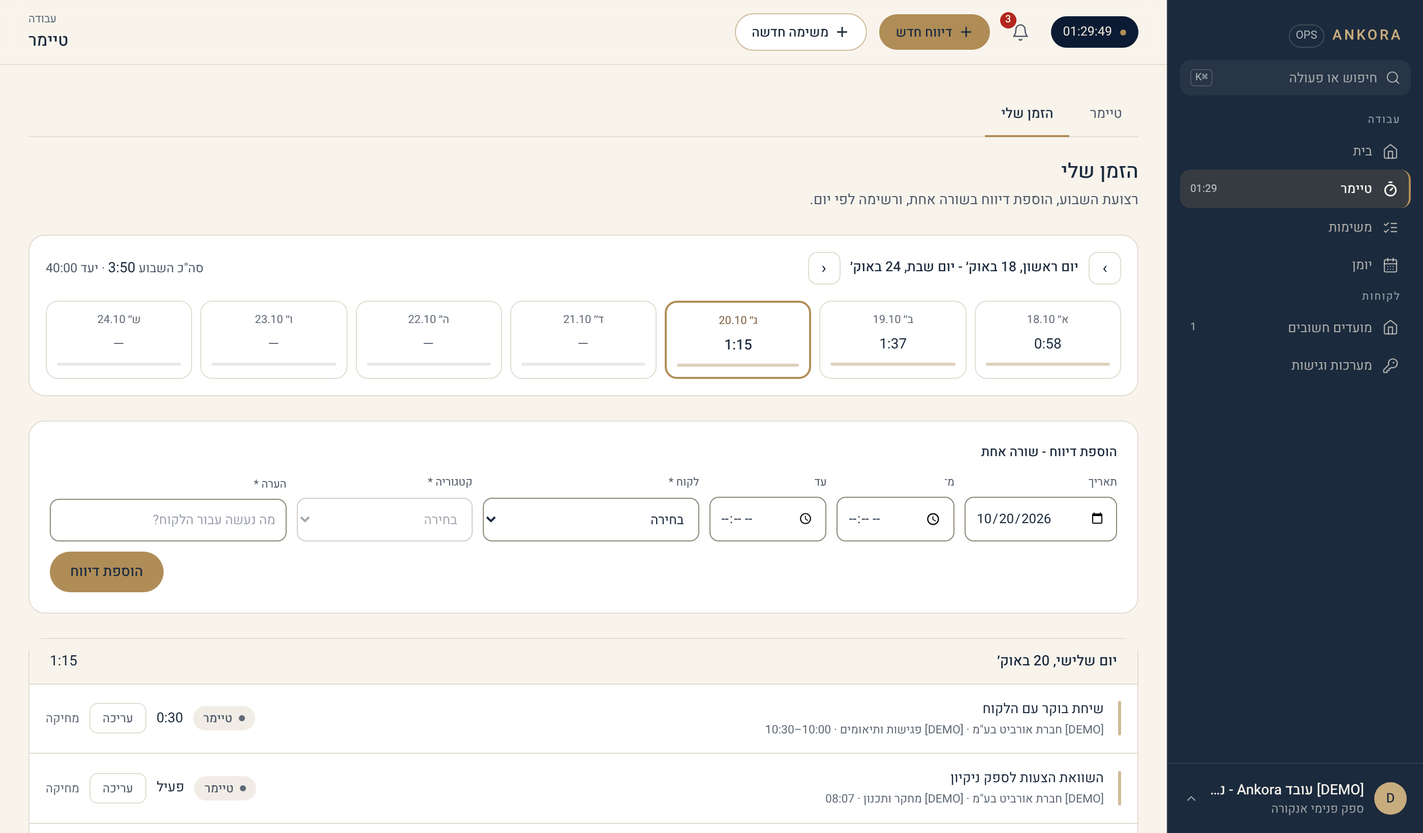
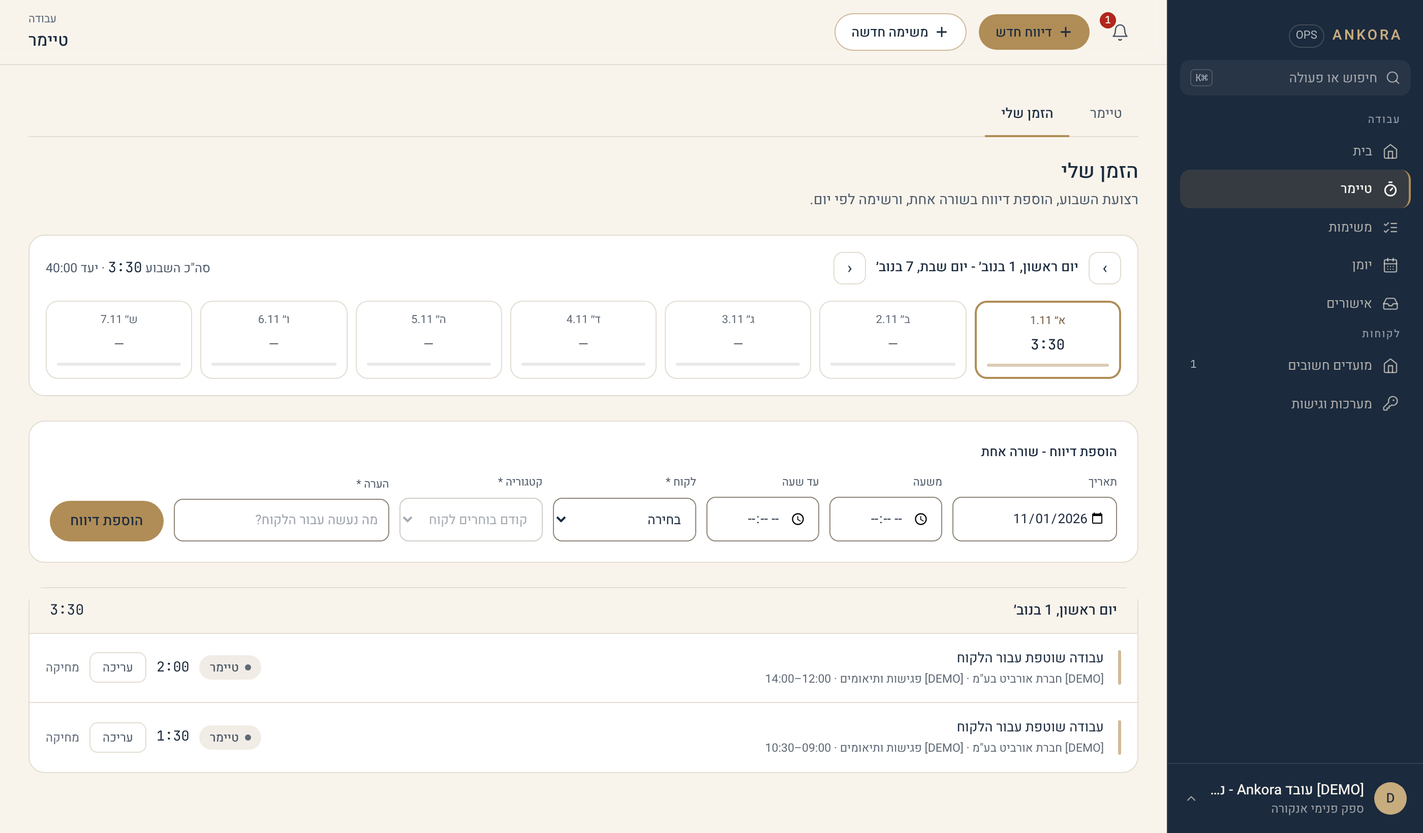
תיעוד: בדיקה שבועית 1.11 - מדריך, ERD ו-README (#374)
* תיעוד: בדיקה שבועית 1.11 - מדריך, ERD ו-README

Claude-Session: https://claude.ai/code/session_015t38bRrRqjtbhz

* README: 55 כלי MCP, ושורת האישורים

Claude-Session: https://claude.ai/code/session_015t38bRrRqjtbhz

---------

diff --git a/app/(product)/app/(authenticated)/guide/content.ts b/app/(product)/app/(authenticated)/guide/content.ts
@@ -200,7 +200,7 @@ export const GUIDE_GROUPS: GuideGroup[] = [
         ],
         steps: [
           "לניווט בין שבועות: חצים בראש רצועת השבוע.",
-          "להזנה ידנית: מלאו את שורת הטופס (תאריך, מ־/עד, לקוח, קטגוריה, הערה) ולחצו \"הוספת דיווח\". ההערה חובה: מה נעשה עבור הלקוח, בכמה מילים. בתאריך שאינו היום ייפתח גם שדה סיבה - הוא חובה.",
+          "להזנה ידנית: מלאו את שורת הטופס (תאריך, \"משעה\", \"עד שעה\", לקוח, קטגוריה, הערה) ולחצו \"הוספת דיווח\". ההערה חובה: מה נעשה עבור הלקוח, בכמה מילים. בתאריך שאינו היום ייפתח גם שדה סיבה - הוא חובה.",
           "לעריכה: לחצו \"עריכה\" בשורת הדיווח, בתוך חלון 48 השעות.",
         ],
         images: [{ src: "/guide/my-time.png", alt: "מסך הזמן שלי עם רשימת דיווחים שבועית", caption: "מסך \"הזמן שלי\" - תצוגה שבועית" }],
@@ -215,6 +215,8 @@ export const GUIDE_GROUPS: GuideGroup[] = [
           "לכל משימה סטטוס אחד מתוך חמישה: פתוחה, בביצוע, ממתינה לאישור, הושלמה, או בארכיון. שינוי סטטוס הוא מיידי ואינו דורש שמירה נפרדת.",
           "בדף של משימה מופיע גם \"גישות למערכות של\" הלקוח, כשנשמרו לו גישות. צפייה בסיסמה משם נרשמת ביומן יחד עם המשימה, ולכן זו הדרך המועדפת לצפות בגישה כשעובדים על משימה.",
           "רואים ויוצרים משימות רק עבור הלקוחות שהוקצו לכם (אותה הרשאה בדיוק כמו בבחירת לקוח במסך הטיימר) - אלא אם יש לכם הרשאת ניהול לקוחות, ואז רואים את כולם.",
+          "בדף של משימה, לצד הטיימר, יש שני כפתורים: \"שיתוף\" ו\"דיווח ידני\". נפתח רק אחד מהם בכל פעם.",
+          "\"בלי AI\": לקוח שביקש ששום דבר שלו לא יעבור דרך AI מסומן \"בלי AI\" בהגדרות הלקוח, ואז כל המשימות, המסמכים והתיק שלו מטופלים בידי אדם בלבד. אפשר לסמן גם משימה בודדת, בתיבה \"בלי AI: המשימה מטופלת בידי אדם בלבד\" בדף המשימה. השלבים והמסמכים של משימה מסומנת יורשים את הסימון. במשימה כזו אין \"קדם עם קלוד\", והפרומפטים והכלים של Claude לא קוראים אותה. כל איש צוות יכול לסמן, ורק מנהל יכול להסיר סימון, כי הסרה היא הכיוון ששולח חומר ל-AI. סימון שמגיע מהלקוח או ממשימת האב מוצג כעובדה ואי אפשר להסיר אותו מהמשימה.",
         ],
         steps: [
           "ליצירת משימה: במחשב לחצו \"משימה חדשה\" בפס העליון (ליד \"דיווח חדש\"), מכל מסך. בטלפון לחצו \"משימה\" במסך המשימות. בחלונית שנפתחת בחרו לקוח (וקטגוריה, אופציונלי), אחראי ומפקח (אופציונלי), הזינו שם משימה ולחצו \"הוספת משימה\".",
@@ -224,6 +226,10 @@ export const GUIDE_GROUPS: GuideGroup[] = [
           "למעבר בין תצוגות: מתג \"רשימה\" / \"לוח\" בראש המסך. בלוח ארבע עמודות לפי סטטוס (פתוחות, בביצוע, ממתינות לאישור, הושלמו), וגרירת כרטיס בין עמודות משנה את הסטטוס.",
           "לקיבוץ ולחיפוש: מתג \"לפי לקוח\" מקבץ את הרשימה לפי לקוח. בשדה החיפוש מחפשים בכותרת, בתיאור, בשרשור ובשם הלקוח - מקלידים ולוחצים Enter. לצדו בוררי \"לקוח\" ו\"קטגוריה\".",
           "לשינוי סטטוס: בחרו סטטוס חדש מהתפריט הנפתח ליד המשימה - השינוי נשמר אוטומטית.",
+          "למיון: לחצו על שם עמודה בכותרת הרשימה (לקוח, משימה, תאריך, אחראי, סטטוס, מפקח). לחיצה ראשונה ממיינת בסדר עולה, שנייה בסדר יורד, ושלישית מחזירה לסדר ברירת המחדל. בטלפון, שבו אין כותרת, יש בורר \"מיון\". המיון נשמר בכתובת, ולכן החזרה ממשימה חוזרת לאותו סדר.",
+          "לשינוי תאריך יעד: לחצו על התאריך בשורת המשימה, או על \"הוספת תאריך יעד\" כשאין תאריך, ובחרו תאריך מהבורר. השינוי נשמר מיד, בלי לפתוח את המשימה.",
+          "לדיווח זמן שהטיימר פספס: בדף המשימה לחצו \"דיווח ידני\", מלאו תאריך, \"מ־\", \"עד\" והערה (ההערה מתחילה בשם המשימה), ולחצו \"שמירת דיווח\". הדיווח נרשם על לקוח המשימה ועליה.",
+          "לשליחת משימה לעמית: בדף המשימה לחצו \"שיתוף\", בחרו \"למי\" (או \"בלי נמען\"), הוסיפו הערה אם רוצים, ולחצו \"טיוטה ב-Gmail\" או \"וואטסאפ\". ההודעה כוללת שם משימה, לקוח, סטטוס, עדיפות, תאריך יעד וקישור. \"העתקת ההודעה\" מעתיקה אותה לכל מקום אחר.",
         ],
         images: [
           { src: "/guide/tasks.png", alt: "מסך המשימות עם לשוניות סטטוס", caption: "מסך \"משימות\"" },
@@ -257,6 +263,7 @@ export const GUIDE_GROUPS: GuideGroup[] = [
         notes: [
           "קלוד לא שולח כלום ללקוח או לספק. הוא מנסח, ואתם שולחים. סגירת משימה, דיווח זמן, שינוי אחראי או תאריך ופתיחת החלטה ללקוח נעשים רק אחרי שאישרתם בשיחה.",
           "התוכנית פנימית ולא מוצגת בפורטל הלקוח. הפרומט לא כולל סיסמאות מהכספת, כרטיסי אשראי או פרטי קשר של הלקוח.",
+          "משימה שמסומנת \"בלי AI\", או משימה של לקוח שמסומן כך, לא מקבלת את הכפתור: במקומו כתוב \"בלי AI: אין \"קדם עם קלוד\" במשימה הזו. היא מטופלת בידי אדם בלבד.\"",
           "אם מישהו שמר גרסה חדשה בזמן שעבדתם, השמירה לא דורסת אותה. קלוד יציג את ההבדל וישאל לפני שהוא שומר שוב.",
         ],
         images: [{ src: "/guide/advance-with-claude.png", alt: "אזור \"תוכנית עבודה\" בדף המשימה", caption: "אזור \"תוכנית עבודה\", עם הגרסה, מי אישר ומתי" }],
@@ -334,6 +341,7 @@ export const GUIDE_GROUPS: GuideGroup[] = [
           "שדה החיפוש שבראש המסך מסנן את הרשת תוך כדי הקלדה, בלי כפתור שליחה.",
           "בתחתית כל כרטיס יש קיצורי דרך לפי ההרשאות שלכם: \"בנק שעות\" (פתיחת המסך של אותו לקוח, למנהל-על) ו\"דוח פעילות\" (קפיצה לטאב תקציר הפעילות במסך הדוחות, עם הלקוח כבר מסונן). כפתור שלישי, \"תצוגת לקוח\", פותח את פורטל הלקוח בדיוק כפי שהלקוח רואה אותו - לקריאה בלבד, והכניסה נרשמת ביומן הפעולות.",
           "לחיצה על שם לקוח פותחת את דף הפרטים שלו, שם ניתן לערוך את הפרטים, לראות את הקטגוריות ואנשי הצוות המשויכים אליו, ולנהל את ההרשמה ללוחות חגים.",
+          "בעריכת הלקוח שני מתגים חדשים. \"בלי AI\": הלקוח ביקש ששום דבר שלו לא יעבור דרך מערכות AI, כלומר משימות, מסמכים ותיק הלקוח מטופלים בידי אדם בלבד. \"הפרדה באישור נהלים\": מי שכתב גרסה של נוהל לא מאשר אותה, גם כשהוא מנהל. מיועד ללקוח שהמבקר שלו דורש הפרדה, וכבוי כברירת מחדל.",
           "לקוח לא נמחק לצמיתות - רק מועבר לארכיון (soft delete), כדי לשמר את כל ההיסטוריה וה-audit trail שלו. בתחתית המסך נפתח אזור \"בארכיון (N)\" עם הלקוחות שהועברו לשם.",
         ],
         steps: [
@@ -402,6 +410,7 @@ export const GUIDE_GROUPS: GuideGroup[] = [
         description: [
           "במסך של לקוח יש שתי לשוניות. \"עבודה שוטפת\" נשארה כמו שהייתה: משימות, מסמכים, החלטות ומועדים. \"תיק הלקוח\" מחזיקה את מה שצריך לדעת כדי לעבוד איתו.",
           "בתיק: סקירה, רקע והתפקיד שלנו; ישויות משפטיות (למשל Inc ו-LTD); אנשים ויחסים; ספקים ונותני שירות; עובדות (תחום אחריות, העדפות, דרישות, כספים, מידע זמני, החלטות ושאלות פתוחות); סוגי פניות ודרכי מענה; מפת מערכות; ומרשם המקורות והדומיינים.",
+          "בצד התיק (ובטלפון, כשורת כפתורים מעליו) יש אינדקס חלקים: \"הכול\", \"סקירה וישויות\", \"אנשים וספקים\", \"עובדות ושאלות\", \"תהליכים ונהלים\", \"כללים\", \"סוגי פניות\", \"מערכות וגישות\" ו\"מקורות\". לחיצה על חלק מציגה אותו לבדו, ו\"הכול\" מציג את התיק הארוך כולו. ליד כל חלק מספר הפריטים בו. \"ממתין לאישור\" מופיע ראשון, עם מספר מודגש, רק כשמשהו מחכה, ונעלם כשאין. החלק האחרון שנפתח חוזר בביקור הבא, בדפדפן הזה.",
           "בראש הלשונית מופיע \"כפילויות אפשריות (N)\": אנשי קשר, ארגונים, מערכות, ישויות ומועדים שנראה שנכנסו לתיק פעמיים בכתיב שונה. משלימים את אחד מהם ומסירים את השני.",
           "לכל פריט יש סטטוס: מאושר (הלקוח או ספק שלו אמר או הראה במפורש), לא ודאי, או חסר. פריט שאינו מאושר מציג גם מה יסגור אותו.",
           "לכל פריט יש מקור: קוד במרשם המקורות של הלקוח (S1, S2) ודקה בהקלטה כשיש. מקורות נרשמים פעם אחת, ב\"מרשם מקורות\", ואז מציינים אותם ליד כל פריט, למשל \"S1 08:13\".",
@@ -410,7 +419,7 @@ export const GUIDE_GROUPS: GuideGroup[] = [
           "אדם וארגון נשמרים פעם אחת לכל אנקורה. שותף כמו משרד רואי חשבון שעובד עם כמה לקוחות מופיע אצל כל אחד מהם עם הקשר משלו, ומה שכתוב עליו אצל לקוח אחד לא מוצג אצל לקוח אחר.",
         ],
         steps: [
-          "פותחים לקוח במסך \"לקוחות\" ועוברים ללשונית \"תיק הלקוח\".",
+          "פותחים לקוח במסך \"לקוחות\" ועוברים ללשונית \"תיק הלקוח\". באינדקס בוחרים חלק, או \"הכול\".",
           "קודם רושמים מקור: \"+ מקור\" במרשם המקורות, עם סוג (הקלטה, מסמך של הלקוח, משימה, נמסר בעל פה, מסמך של אנקורה, מייל) ושם.",
           "מוסיפים פריט עם הכפתור של הסעיף (\"+ איש קשר\", \"+ פריט\", \"+ מערכת\" וכו'), ומציינים את קוד המקור בשדה \"מקורות\".",
           "לשאלה פתוחה: \"+ פריט\" ובחירת \"שאלה פתוחה\". כשיש תשובה, \"תשובה\" עם המקור שלה. \"למשימה\" פותחת משימה למי שאחראי לברר.",
@@ -457,18 +466,21 @@ export const GUIDE_GROUPS: GuideGroup[] = [
         id: "client-processes",
         title: "תהליכים ונהלים",
         roles: ["SUPER_ADMIN", "ANKORA_ADMIN"],
-        summary: "מה חוזר אצל הלקוח, מי אחראי, מה מפעיל את זה, ואיך עושים את זה. נוהל רץ רק אחרי שמנהל אישר אותו.",
+        summary: "מה חוזר אצל הלקוח, מי אחראי, מה מפעיל את זה, ואיך עושים את זה. נוהל רץ רק אחרי שמנהל או מנהל התיק של הלקוח אישרו אותו.",
         description: [
           "\"תהליכים\" בלשונית תיק הלקוח. לכל תהליך קוד (P1, P2), טריגר, בעלים, ואיפה הוא עומד בחפיפה: אצל הלקוח, בחפיפה, אצלנו, או לא עובר אלינו.",
           "בראש כל כרטיס כתוב אם התהליך רץ. תהליך רץ כשיש לו אחראי, כתוב מה מפעיל אותו, יש לו נוהל מאושר, וכשהוא לפי מועד, יש לו מועד הבא. כשאחד מאלה חסר כתובה באדום הסיבה האחת, למשל \"לא ירוץ: אין נוהל מאושר\".",
           "התיעוד מוצג בנפרד ובשקט, \"תיעוד 4 מתוך 6\": SLA, מערכות, הרשאות, ספי אישור ומאשר, גורם חיצוני ונוהל חריגים. הוא לא עוצר ריצה. שדה שלא שייך לתהליך מסמנים \"לא רלוונטי\" בלחיצה (מנהל או הבעלים של התהליך), והוא יוצא מהספירה. \"(ביטול)\" ליד הסימון מחזיר אותו. מאשר שכתוב בשם מספיק לספי אישור ומאשר.",
           "מערכת או איש קשר מהתיק שמוזכרים בשלבים או בתיאור של התהליך ועוד לא מקושרים, מופיעים בכרטיס עם כפתור \"לקשר\". שום דבר לא מקושר לבד.",
+          "הנוהל המאושר מצויר בכרטיס כתרשים: פס של הימים שבהם משהו קורה, ומתחתיו עמודת שלבים לכל יום. בתהליך לפי מועד יום 0 הוא \"המועד\", עם התאריך. שלב שדורש אישור או שמגיע אחרי הזמן המוגדר מסומן. התרשים הוא ברירת המחדל. מתג \"טקסט\" לצד \"תרשים\" מחזיר את כל הכרטיסים לרשימה, והבחירה נשמרת בדפדפן.",
+          "עריכת התהליך וכתיבת הנוהל נפתחות בחלונית צד בחצי מסך. שדות העריכה מקובצים (\"מה ומתי\", \"מי\", \"זמנים ובקרה\", \"מערכות וגורמים\", \"מצב\", \"חריגים ומסמך הנוהל\"), ושדות פחות נפוצים מסתתרים מאחורי \"הצג עוד\", עם ספירה של מה שכבר מלא. ב\"עוד\" בכרטיס: השהיה, חידוש והסרה של התהליך.",
+          "\"מבחן הזר\" שואל אם מי שמעולם לא עשה את התהליך יכול להריץ אותו מחר. בכרטיס כתוב מצבו (\"מבחן הזר: עוד לא הורץ\", \"2 חוסמים, 5 שאלות פתוחות · 31.10\" או \"עבר\") והשאלות הפתוחות, כל אחת עם חומרה (חוסם, יאט, שיפור), השלב, ומי יודע (אצלנו או אצל הלקוח). \"מבחן הזר: העתקת הנחיה ל-Claude\" מעתיק הנחיה: Claude עובר על כל שלב מול התיק, המסמכים והלקחים, ורושם שאלות במקומות שבהם היה נתקע. מבחן חדש מחליף את השאלות שנשארו פתוחות. תשובה שנותנים ל-Claude נכנסת לתיק מיד כעובדה מאושרת, על שם מי שענה, בלי הצעה ובלי סבב אישור. תשובה שמשנה כלל: Claude שואל במפורש \"זה משנה את הכלל X מ-A ל-B. אתה מאשר?\", ורק על \"כן\", ממנהל או ממנהל התיק, הכלל מתעדכן ומאושר, והגרסה הקודמת נשמרת בהיסטוריה.",
           "בכל כרטיס תהליך יש שורה אחת \"הצעד הבא\": הדבר שעוצר הכי הרבה, מה מומלץ ולמה, וכפתור שעושה את זה. למשל: \"לקשר את המועד\" לתהליך לפי מועד בלי מועד הבא, או \"לסגור את שתיהן\" למשימות ישנות שהתהליך מכסה. מתחת, שאר הפערים כרשימה לסמן, לכל אחד הפעולה שלו. כשאין מה לסגור כתוב \"תקין\".",
           "הנוהל, הריצות, ההערות מריצות, המקורות וההיסטוריה נמצאים תחת \"פרטים\". הם סגורים, חוץ מכשטיוטת נוהל מחכה לאישור או כשהגעתם לתהליך מקישור.",
           "הנוהל נשמר בגרסאות. לכל שלב: מה עושים, איך (ידני, Claude מכין ואדם בודק, אוטומטי), כמה ימי עסקים מהמועד, מה השלב עושה (תשלום, חתימה, הודעה ללקוח), באילו מערכות, ומה נוצר בסופו.",
           "ריצה היא משימה: שם התהליך, השלבים של הנוהל המאושר כשלבי המשימה, כל אחד ביום העסקים שלו, והבעלים של התהליך כאחראי. בתיאור: הדגשים, מה חייב להיווצר, כללי הלקוח שחלים, חריגות מאושרות, פערים, ומה עושים כשמשהו חורג. מועד שמקושר לתהליך פותח ריצה מוקדם מספיק כדי שהשלב הראשון לא יאחר. תהליך מושהה לא פותח כלום, ושוטף לא נפתח כריצה.",
           "תהליך שוטף (איסוף חשבוניות, הנהלת חשבונות שוטפת) לא פותח משימות. הוא מופיע ב\"שגרה שוטפת\" במסך הבית של הבעלים (ושל המחליף, אם נקבע), ואפשר לקבוע לו בדיקה כל כמה ימים ומה בודקים. כשהבדיקה מגיעה הבעלים מקבל התראה. \"נבדק, הכול תקין\" נרשם בהיסטוריה של התהליך. \"נמצאה בעיה\" מחייב לכתוב מה נמצא, ופותח משימה להיום למי שבדק.",
-          "מנהל מאשר כל גרסה. לפני האישור רצות בדיקות: תשלום, חוזה, חתימה או אישור ספק חדש לא נעשים אוטומטית, וכש-Claude מכין אותם אדם מאשר. הודעה ללקוח לא נשלחת אוטומטית. שלב אוטומטי צריך לכתוב איך מוודאים שקרה. נוהל שמזיז כסף צריך שלב אישור כשללקוח יש כללי אישור. וסודות לא נכנסים לנוהל.",
+          "מנהל או מנהל התיק של הלקוח מאשרים כל גרסה. ללקוח שהוגדר אצלו \"הפרדה באישור נהלים\", מי שכתב את הגרסה לא מאשר אותה, גם כשהוא מנהל, ומישהו אחר מאשר. הבדיקות שלפני האישור לא תלויות במי מאשר. לפני האישור רצות בדיקות: תשלום, חוזה, חתימה או אישור ספק חדש לא נעשים אוטומטית, וכש-Claude מכין אותם אדם מאשר. הודעה ללקוח לא נשלחת אוטומטית. שלב אוטומטי צריך לכתוב איך מוודאים שקרה. נוהל שמזיז כסף צריך שלב אישור כשללקוח יש כללי אישור. וסודות לא נכנסים לנוהל.",
           "כללי הלקוח שמסומנים לבדיקה נבדקים מול כל שלב: סכום מעל הסף בלי אישור לפניו חוסם. שלב חובה שחסר, שלב שמגיע מאוחר מדי, הודעה בערוץ שהכלל לא מתיר, פעולה אסורה, או גורם חיצוני של ישות אחרת, מאושרים רק עם חריגה מאושרת לכלל. לשלב של תשלום אפשר לכתוב סכום מרבי ומטבע, ולשלב של הודעה ללקוח את הערוץ.",
           "הבדיקות רצות גם על הנוהל שכבר בתוקף. כשכלל של הלקוח נוסף, משתנה, מאושר או מבוטל, או כשחריגה מאושרת או נגמרת, כל הנהלים של הלקוח נבדקים מחדש. נוהל שכבר לא עומד בכללים מסומן \"דורש סקירה\", הבעלים מקבל התראה, ובכל ריצה פתוחה שלו נכתבת הערה עם מה שלא עומד. כשהכלל שחסם נעלם או מקבל חריגה, הסימון יורד לבד.",
           "סקירה תקופתית: \"סקירת הנוהל כל (ימים)\" בעריכת התהליך. כשהמועד מגיע, התהליך מסומן \"דורש סקירה\" והבעלים מקבל התראה. מנהל עובר על הנוהל ולוחץ \"סימון שנסקר\", או כותב גרסה חדשה. אישור גרסה חדשה גם הוא סקירה.",
@@ -482,7 +494,7 @@ export const GUIDE_GROUPS: GuideGroup[] = [
         steps: [
           "\"+ תהליך\", ממלאים מה שידוע. מה שלא ידוע נשאר ריק ומופיע כפער.",
           "\"כתיבת נוהל\": שלבים, דגשים ומה חייב להיווצר. נשמר כטיוטה.",
-          "מנהל לוחץ \"אישור הנוהל\". אם בדיקה נכשלת, היא כתובה על הטיוטה, ומתקנים לפני האישור.",
+          "מנהל או מנהל התיק של הלקוח לוחצים \"אישור הנוהל\". אם בדיקה נכשלת, היא כתובה על הטיוטה, ומתקנים לפני האישור.",
           "לתהליך לפי מועד: \"מועדים\" מקשר את המועדים של הלקוח שמפעילים אותו.",
           "תהליך שמופעל כשמשהו קורה או לפי בקשה: \"פתיחת ריצה\" ובוחרים את היום.",
           "תהליך שוטף: בעריכה ממלאים \"בדיקה כל (ימים)\" ו\"מה בודקים\". את הבדיקה רושמים ב\"רישום בדיקה\", מהכרטיס או מ\"שגרה שוטפת\" במסך הבית.",
@@ -497,9 +509,9 @@ export const GUIDE_GROUPS: GuideGroup[] = [
         id: "client-rules",
         title: "כללים של הלקוח",
         roles: ["SUPER_ADMIN", "ANKORA_ADMIN"],
-        summary: "מה מותר ומה אסור אצל הלקוח, מי מאשר, מה לא מספרים למי, ומה לא נכנס לתיק. כלל מחייב רק אחרי שמנהל אישר אותו.",
+        summary: "מה מותר ומה אסור אצל הלקוח, מי מאשר, מה לא מספרים למי, ומה לא נכנס לתיק. כלל מחייב רק אחרי שמנהל או מנהל התיק של הלקוח אישרו אותו.",
         description: [
-          "\"כללים של הלקוח\" בלשונית תיק הלקוח. כל מי שעובד על הלקוח יכול לכתוב כלל, עם מקור כמו כל פריט בתיק. כלל חדש הוא \"מוצע\" עד שמנהל מאשר אותו.",
+          "\"כללים של הלקוח\" בלשונית תיק הלקוח. כל מי שעובד על הלקוח יכול לכתוב כלל, עם מקור כמו כל פריט בתיק. כלל חדש הוא \"מוצע\" עד שמנהל או מנהל התיק של הלקוח מאשרים אותו. ביטול כלל נשאר בידי מנהל.",
           "כלל שמתיר משהו (סף, אישור) צריך כלל ביניים: מה עושים עד שהוא מאושר. למשל \"תוכנה עד 3,000$ בשנה מאושרת\", ועד האישור \"כל הוצאה עוברת לאורן\". כלל מגביל בלי כלל ביניים חל כפי שהוא כתוב, כבר מהרגע שנכתב.",
           "כללי טיפול במידע נשלחים לכל חילוץ, ידני ויומי, ו-Claude לא מציע מה שהם לא מתירים. כללי חשיפה מוצגים בראש מסך הלקוח, בשתי הלשוניות. כל הכללים מופיעים בתיק לקריאה ובתיק ש-Claude מקבל.",
           "כלל על שלבי עבודה נבדק מול הנהלים כשמסמנים \"לבדוק את הכלל מול הנהלים\" וממלאים מה בודקים: סכום ומטבע לסף, פעולות לאישור ולאיסור, ימי עסקים לתזמון, ערוצים לתקשורת, ניסוח לשלב חובה, וישויות להפרדה. בלי זה הכלל נקרא על ידי אנשים ועל ידי Claude בלבד, והמסך אומר זאת ליד הכלל.",
@@ -510,7 +522,7 @@ export const GUIDE_GROUPS: GuideGroup[] = [
         ],
         steps: [
           "\"+ כלל\", בוחרים סוג, כותבים את הכלל ואת המקור.",
-          "מנהל לוחץ \"אישור הכלל\". כלל שעדיין לא ודאי לא מאשרים: קודם מוודאים מול הלקוח.",
+          "מנהל או מנהל התיק של הלקוח לוחצים \"אישור הכלל\". כלל שעדיין לא ודאי לא מאשרים: קודם מוודאים מול הלקוח.",
           "כלל שכבר לא בתוקף מבטלים, עם סיבה בשורה אחת. הוא נשאר בהיסטוריה.",
         ],
         notes: [
@@ -846,6 +858,7 @@ export const GUIDE_GROUPS: GuideGroup[] = [
           "לחצו \"העתק ללוח\" והדביקו את הטקסט בשיחה עם ChatGPT/Claude, או \"הורדה כקובץ טקסט\" לשמירה מקומית.",
         ],
         notes: [
+          "לקוח שמסומן \"בלי AI\" לא מקבל תקציר: במקומו מוצגת הודעה. בלקוח אחר, דיווח שמשויך למשימה מסומנת \"בלי AI\" נשאר עם השעות, בלי ההערה, ושם המשימה מוחלף ב\"משימה בלי AI\".",
           "אין אפשרות לבחור \"כל הלקוחות\" בטאב הזה במכוון - תקציר שמערבב הערות פנימיות משני לקוחות שונים עלול להיות גם מבלבל ל-AI וגם בעייתי מבחינת חשיפת מידע בין לקוחות.",
         ],
       },
@@ -1094,6 +1107,7 @@ export const GUIDE_GROUPS: GuideGroup[] = [
         description: [
           "מסך זה מיועד לעדכון ההעדפות האישיות שלכם - לא של משתמשים אחרים, ולא של הגדרות מערכת. כל תפקיד, כולל לקוח, יכול לגשת אליו.",
           "\"התראות אישיות\": שני מתגים. \"מייל יומי בבוקר\" שולח לכם בבוקר את מה שעליכם היום, ו\"התראת מייל על טיימר שרץ זמן ארוך\" קובע אם תקבלו גם מייל (בנוסף להתראה בתוך המערכת) כשטיימר שלכם רץ יותר מ-8 שעות ברציפות. כיבוי המתג השני לא מבטל את ההתראה בתוך המערכת (מסך \"התראות שלי\") - רק את המייל הנוסף.",
+          "\"מספר וואטסאפ\" (לצוות Ankora בלבד): המספר שאליו נפתחת שיחת וואטסאפ כשעמית משתף איתכם משימה בכפתור \"שיתוף\". אפשר להשאיר ריק, ואז השיתוף אליכם אפשרי רק במייל.",
           "החלפת סיסמה דורשת הזנת הסיסמה הנוכחית לצורך אימות, בנוסף לסיסמה החדשה - בשונה מ\"שכחתי סיסמה\" (שאין בו סיסמה קודמת לאמת, כי המשתמש לא מחובר).",
           "\"Passkey (Touch ID)\": מופיע לכל התפקידים, אבל במשמעות שונה. לצוות Ankora זה האימות הדו-שלבי בכל כניסה, וגם האימות שנדרש לפני צפייה בסיסמה של לקוח במסך \"מערכות וגישות\". ללקוח זו שכבת הגנה אופציונלית לפורטל, שמפעילים בכרטיס עצמו ב\"הפעלת אימות דו-שלבי\". בשני המקרים: טביעת אצבע או זיהוי פנים במכשיר שלכם, והמפתח עצמו נשאר במכשיר ולא נשמר במערכת.",
           "מומלץ להחזיק יותר ממכשיר אחד, למשל מחשב וטלפון, כדי שאובדן של אחד לא ינעל את הכניסה. הכפתור הראשי בכרטיס הוא \"הפקת קוד למכשיר חדש\": מפיקים כאן קוד, ומקלידים אותו במכשיר החדש אחרי הסיסמה. אם איבדתם את כל המכשירים, מנהל-על יכול לאפס את ה-passkeys שלכם מדף המשתמש שלכם.",
@@ -1102,6 +1116,7 @@ export const GUIDE_GROUPS: GuideGroup[] = [
         steps: [
           "לעדכון שם התצוגה: ערכו את השדה \"שם לתצוגה\" ולחצו \"שמירה\".",
           "לעדכון אזור זמן: בחרו אזור זמן מהרשימה ולחצו \"שמירה\".",
+          "להוספת מספר וואטסאפ: הקלידו אותו בשדה \"מספר וואטסאפ\" ולחצו \"שמירה\". ההודעה \"המספר נשמר.\" מאשרת.",
           "לשינוי מיילים אישיים: לחצו על אחד משני המתגים בכרטיס \"התראות אישיות\" - השינוי נשמר מיידית, בלי כפתור שמירה נפרד.",
           "להחלפת סיסמה: מלאו סיסמה נוכחית, סיסמה חדשה ואימות סיסמה חדשה, ולחצו \"החלפת סיסמה\".",
           "להוספת ה-passkey הראשון: בכרטיס \"Passkey (Touch ID)\" לחצו \"הוספת passkey\", תנו שם למכשיר, הקלידו את הסיסמה שלכם לאנקורה, לחצו \"המשך ל-Touch ID\" ואשרו בטביעת אצבע. כשכבר יש passkey, אותו כפתור נקרא \"רישום מפתח נוסף בדפדפן או במכשיר הזה\".",

diff --git a/docs/erd.md b/docs/erd.md
@@ -75,6 +75,7 @@ erDiagram
         int tokenVersion
         int failedLoginAttempts
         datetime lockedUntil
+        string whatsappNumber "nullable, the number a task share opens a WhatsApp chat with, as typed on the profile screen"
         datetime deletedAt
     }
 
@@ -95,6 +96,8 @@ erDiagram
         string sourceKeywords "(list) words that name the client in a meeting title"
         string driveFolderId "nullable, the Drive folder its conversations are saved to"
         string conversationsDocId "nullable, the running conversations document"
+        bool aiExcluded "nothing of this client passes through AI: its tasks, documents and file"
+        bool procedureApprovalSeparation "whoever wrote a version of a procedure does not approve it, default false"
         datetime deletedAt
     }
 
@@ -141,6 +144,7 @@ erDiagram
         string source "local or external provider name"
         string externalRef "nullable"
         bool mappingTask "a handover mapping stage: what it learns goes to the client file before it closes"
+        bool aiExcluded "the client asked that this task stay away from AI; steps and documents inherit it"
         datetime deletedAt
     }
 
@@ -593,6 +597,7 @@ erDiagram
         string mimeType
         int sizeBytes "nullable"
         boolean clientVisible
+        boolean aiExcluded "this document stays away from AI, also when its task or client is excluded"
         string uploadedById FK "nullable"
         datetime createdAt
         datetime updatedAt
@@ -1042,6 +1047,7 @@ erDiagram
     Process ||--o{ ImportantDate : "has"
     Process ||--o{ ProcessCheck : "has"
     Process ||--o{ ProcessLesson : "has"
+    Process ||--o{ ProcessStrangerTest : "has"
     Process ||--o{ ProcessVersion : "has"
     Process ||--o{ RequestType : "has"
 
@@ -1214,6 +1220,37 @@ erDiagram
         datetime resolvedAt "nullable"
         string resolution "nullable"
     }
+
+    ProcessStrangerTest {
+        string id PK
+        string processId FK
+        string clientId
+        int version "nullable, the procedure version walked"
+        string summary "nullable"
+        string ranById "nullable"
+        string sourceCode "nullable, the source the answers are recorded under"
+        datetime createdAt
+    }
+
+    ProcessStrangerQuestion {
+        string id PK
+        string testId FK
+        string processId
+        string clientId
+        int step "nullable, 1-based, null for the process as a whole"
+        string severity "enum StrangerSeverity"
+        string askWho "enum StrangerAskWho"
+        string question
+        string status "enum StrangerQuestionStatus"
+        string answer "nullable"
+        string answeredById "nullable"
+        datetime answeredAt "nullable"
+        string factId "nullable, the fact the answer became"
+        string policyId "nullable, the rule the answer changed"
+        datetime createdAt
+    }
+
+    ProcessStrangerTest ||--o{ ProcessStrangerQuestion : "has"
 ```
 
 ### Internal suppliers: agreements
@@ -1300,6 +1337,9 @@ erDiagram
 | `SourceKind` | `TRANSCRIPT`, `CLIENT_DOCUMENT`, `TASK`, `PERSON`, `ANKORA_DOCUMENT`, `EMAIL` |
 | `SourceRestriction` | `NONE`, `TOPICS_ONLY` |
 | `SourceWeight` | `PRIMARY`, `SECONDARY` |
+| `StrangerAskWho` | `ANKORA`, `CLIENT` |
+| `StrangerQuestionStatus` | `OPEN`, `ANSWERED`, `NOT_RELEVANT`, `REPLACED` |
+| `StrangerSeverity` | `BLOCKER`, `SLOWS`, `IMPROVES` |
 | `SupplierExperience` | `GOOD`, `OK`, `AVOID` |
 | `SystemAccessStatus` | `HAS_ACCESS`, `PENDING`, `NO_ACCESS`, `NOT_NEEDED` |
 | `SystemPermission` | `NONE`, `VIEWER`, `USER`, `BILLING`, `ADMIN`, `OWNER` |

diff --git a/README.md b/README.md
@@ -264,7 +264,7 @@ existed.
 ### Claude Desktop (MCP)
 
 `/api/mcp` exposes the Time Tracking app to a staff member's Claude over
-the Model Context Protocol. 49 tools, by family:
+the Model Context Protocol. 55 tools, by family:
 
 | | |
 | --- | --- |
@@ -274,6 +274,7 @@ the Model Context Protocol. 49 tools, by family:
 | Client file (`client-file-tools.ts`, 17) | `get_client_file`, `get_client_brief`, `get_client_changes`, `propose_knowledge`, `lookup_contact`, `list_processes`, `get_process`, `get_procedure_for_translation`, `save_procedure_translation`, `list_policies`, `start_process`, `record_run_lesson`, `record_stranger_test`, `answer_stranger_question`, `list_my_routines`, `record_process_check`, `get_extraction_brief` |
 | Documents (`document-tools.ts`, 5) | `list_documents`, `read_document`, `set_document_kind`, `start_document_upload`, `upload_document` |
 | Hour bank (`hour-bank-tools.ts`, 1) | `get_hours_bank`: the Hour Banks screen's figures for one client, optionally as of a date, in whole minutes. Adjustments go to managers only, flagged as internal |
+| Approvals (`approval-tools.ts`, 3) | `list_approvals`, `decide_approval`, `decide_knowledge_proposals`: the decisions waiting on the person, and approving or rejecting them from Claude |
 | Internal suppliers (`employee-tools.ts`, 5) | `get_employee_status`, `get_blank_agreement_pdf`, `issue_agreement_upload_code`, `record_pdf_signature`, `dismiss_pdf_upload` |
 
 A second, separate server at `/api/mcp/portal` (`portal-tools.ts`) serves
